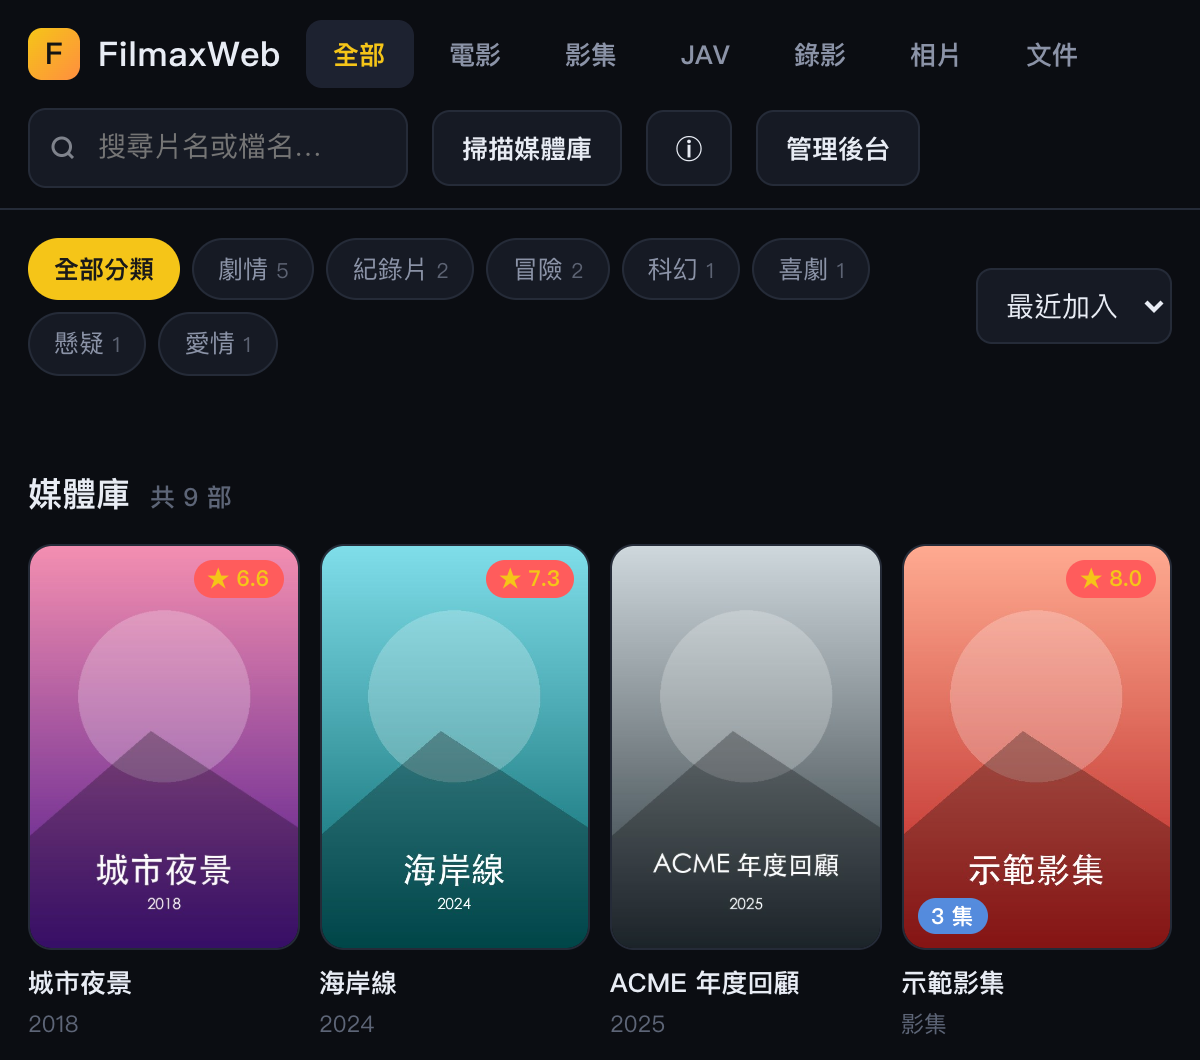
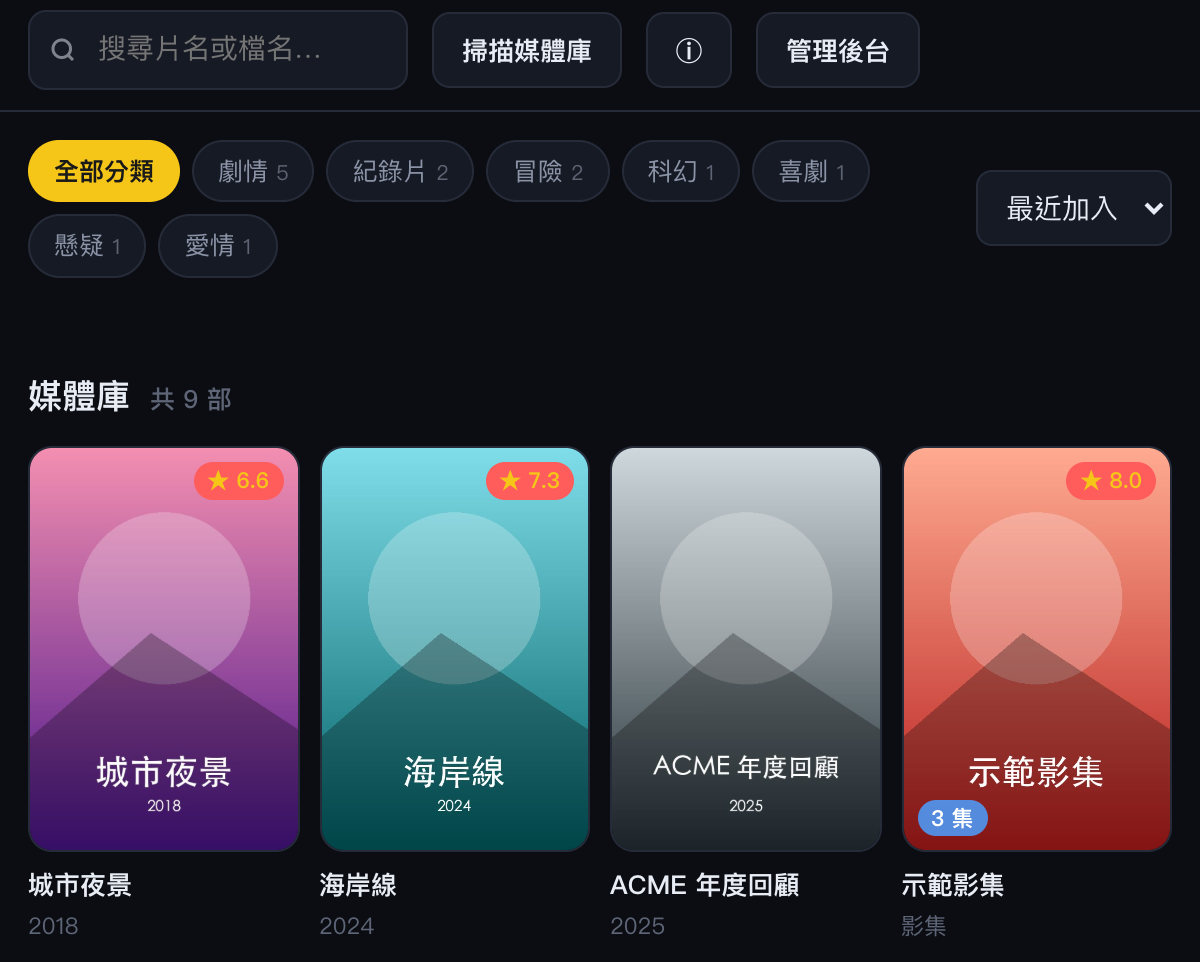
fix(sites): FilmaxWeb 主圖裁掉頂部類型分頁列
- 首頁截圖裁掉最上方寫死在前端的類型分頁列，保留搜尋框與後台入口
- alt 與 caption 改為描述截圖實際可見的內容

diff --git a/filmaxweb/index.html b/filmaxweb/index.html
@@ -229,10 +229,10 @@ footer p{margin:18px 0 0}
       <figure style="margin:0">
         <div class="term">
           <div class="bar"><i></i><i></i><i></i><span>FilmaxWeb — 媒體庫</span></div>
-          <img src="img/library.png" width="1200" height="1060"
-               alt="FilmaxWeb 首頁：上方是全部／電影／影集／相片／文件等分頁與搜尋框，下面是分類標籤與海報牆，影集卡片標出集數，有評分的海報右上角標出分數">
+          <img src="img/library.png" width="1200" height="962"
+               alt="FilmaxWeb 首頁：搜尋框與掃描媒體庫、管理後台按鈕，下面是分類標籤、排序選單與海報牆，影集卡片標出集數，有評分的海報右上角標出分數">
         </div>
-        <figcaption class="cap">首頁的海報牆。上方分頁切換影片、相片與文件，分類標籤與排序（最近加入、片名、年份、評分）可以再篩。</figcaption>
+        <figcaption class="cap">首頁的海報牆（截圖省略最上方的類型分頁列）。影片、相片與文件各有自己的分頁，分類標籤與排序（最近加入、片名、年份、評分）可以再篩。</figcaption>
       </figure>
     </div>
   </header>
